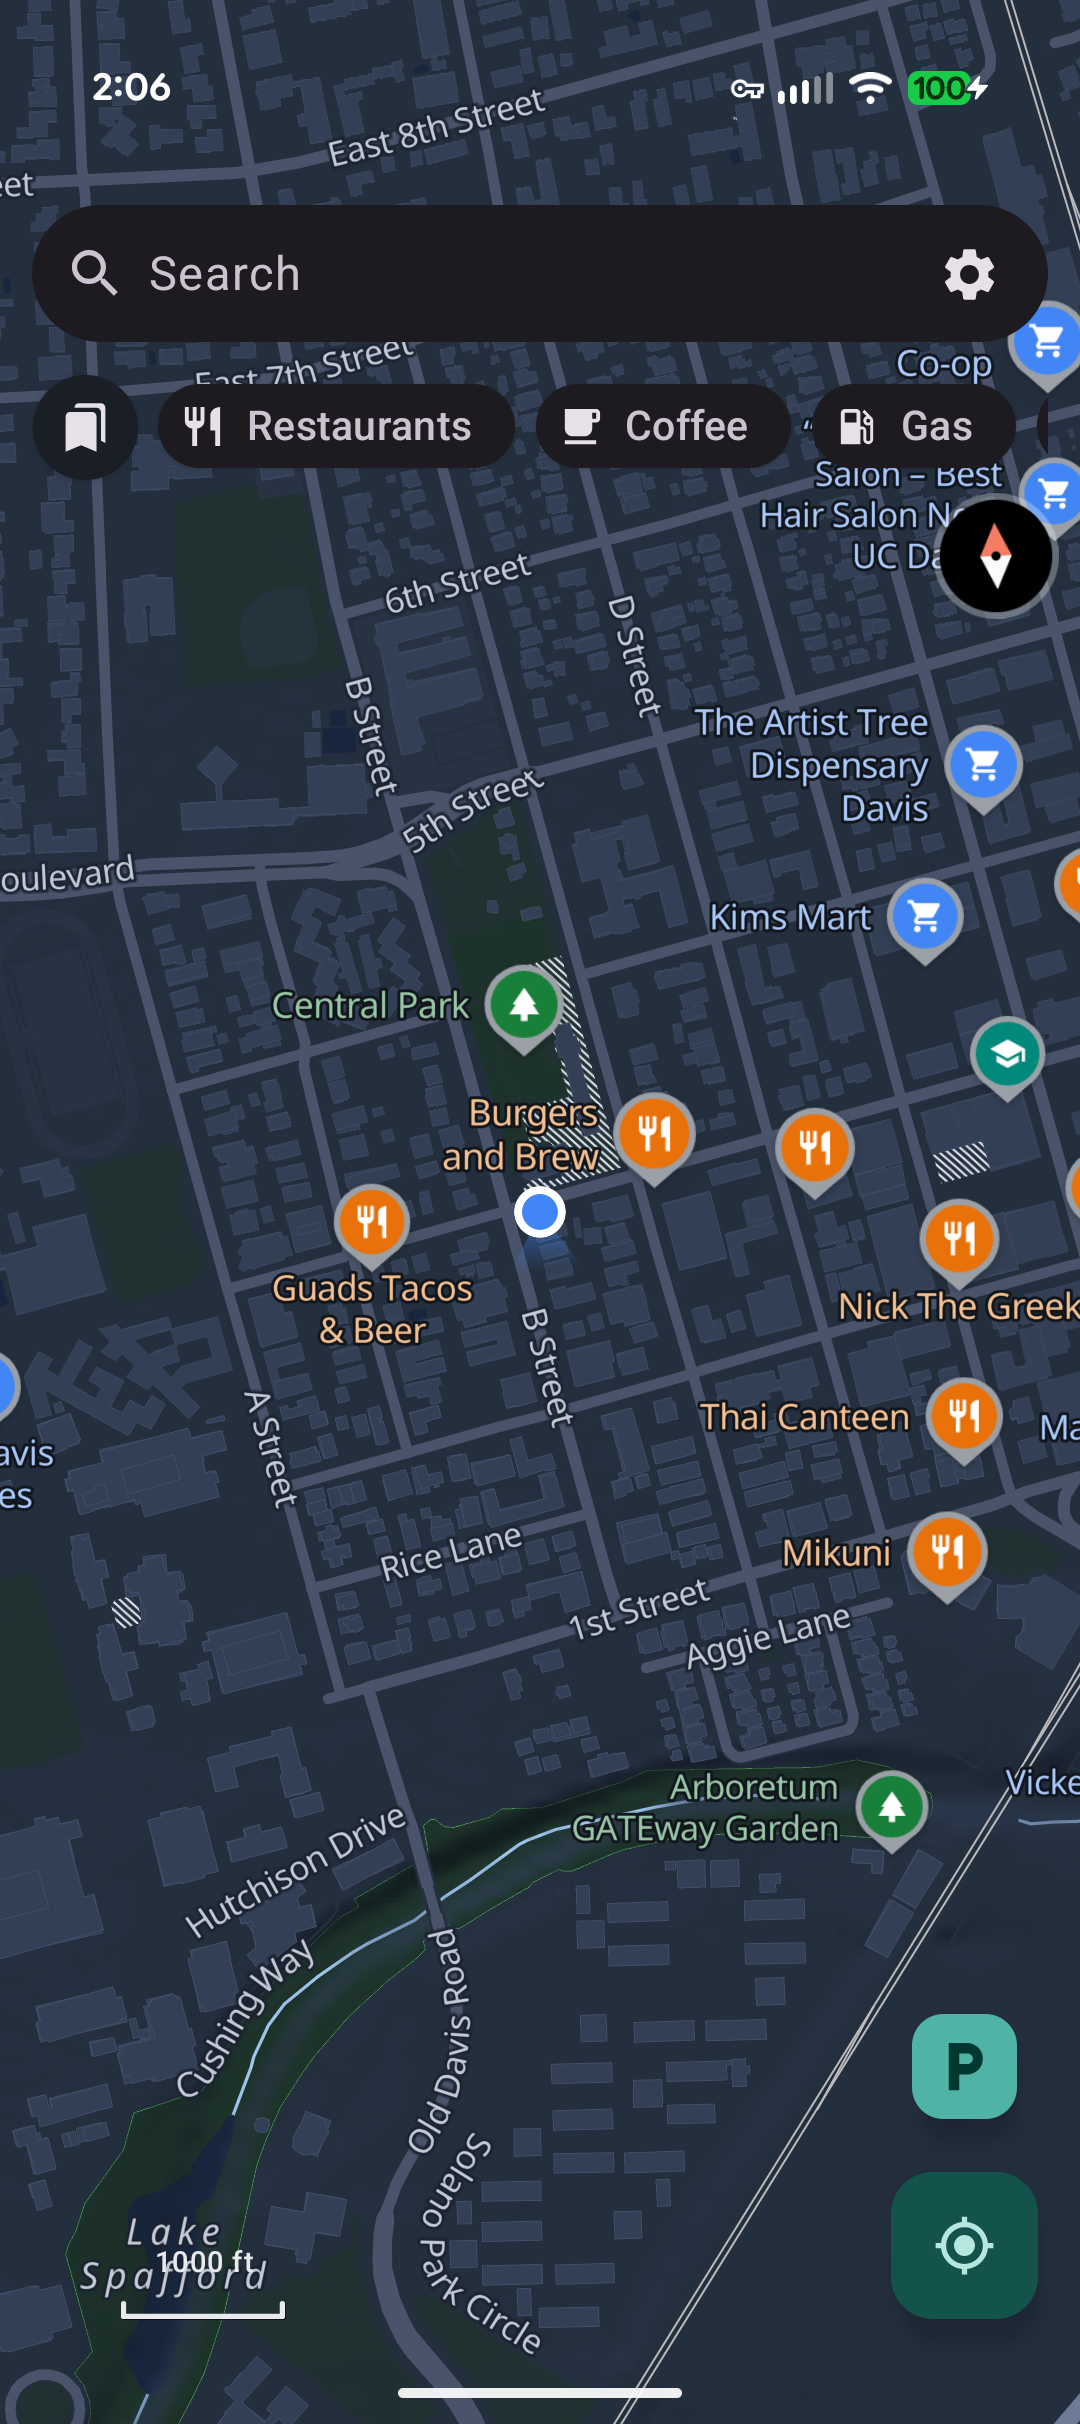
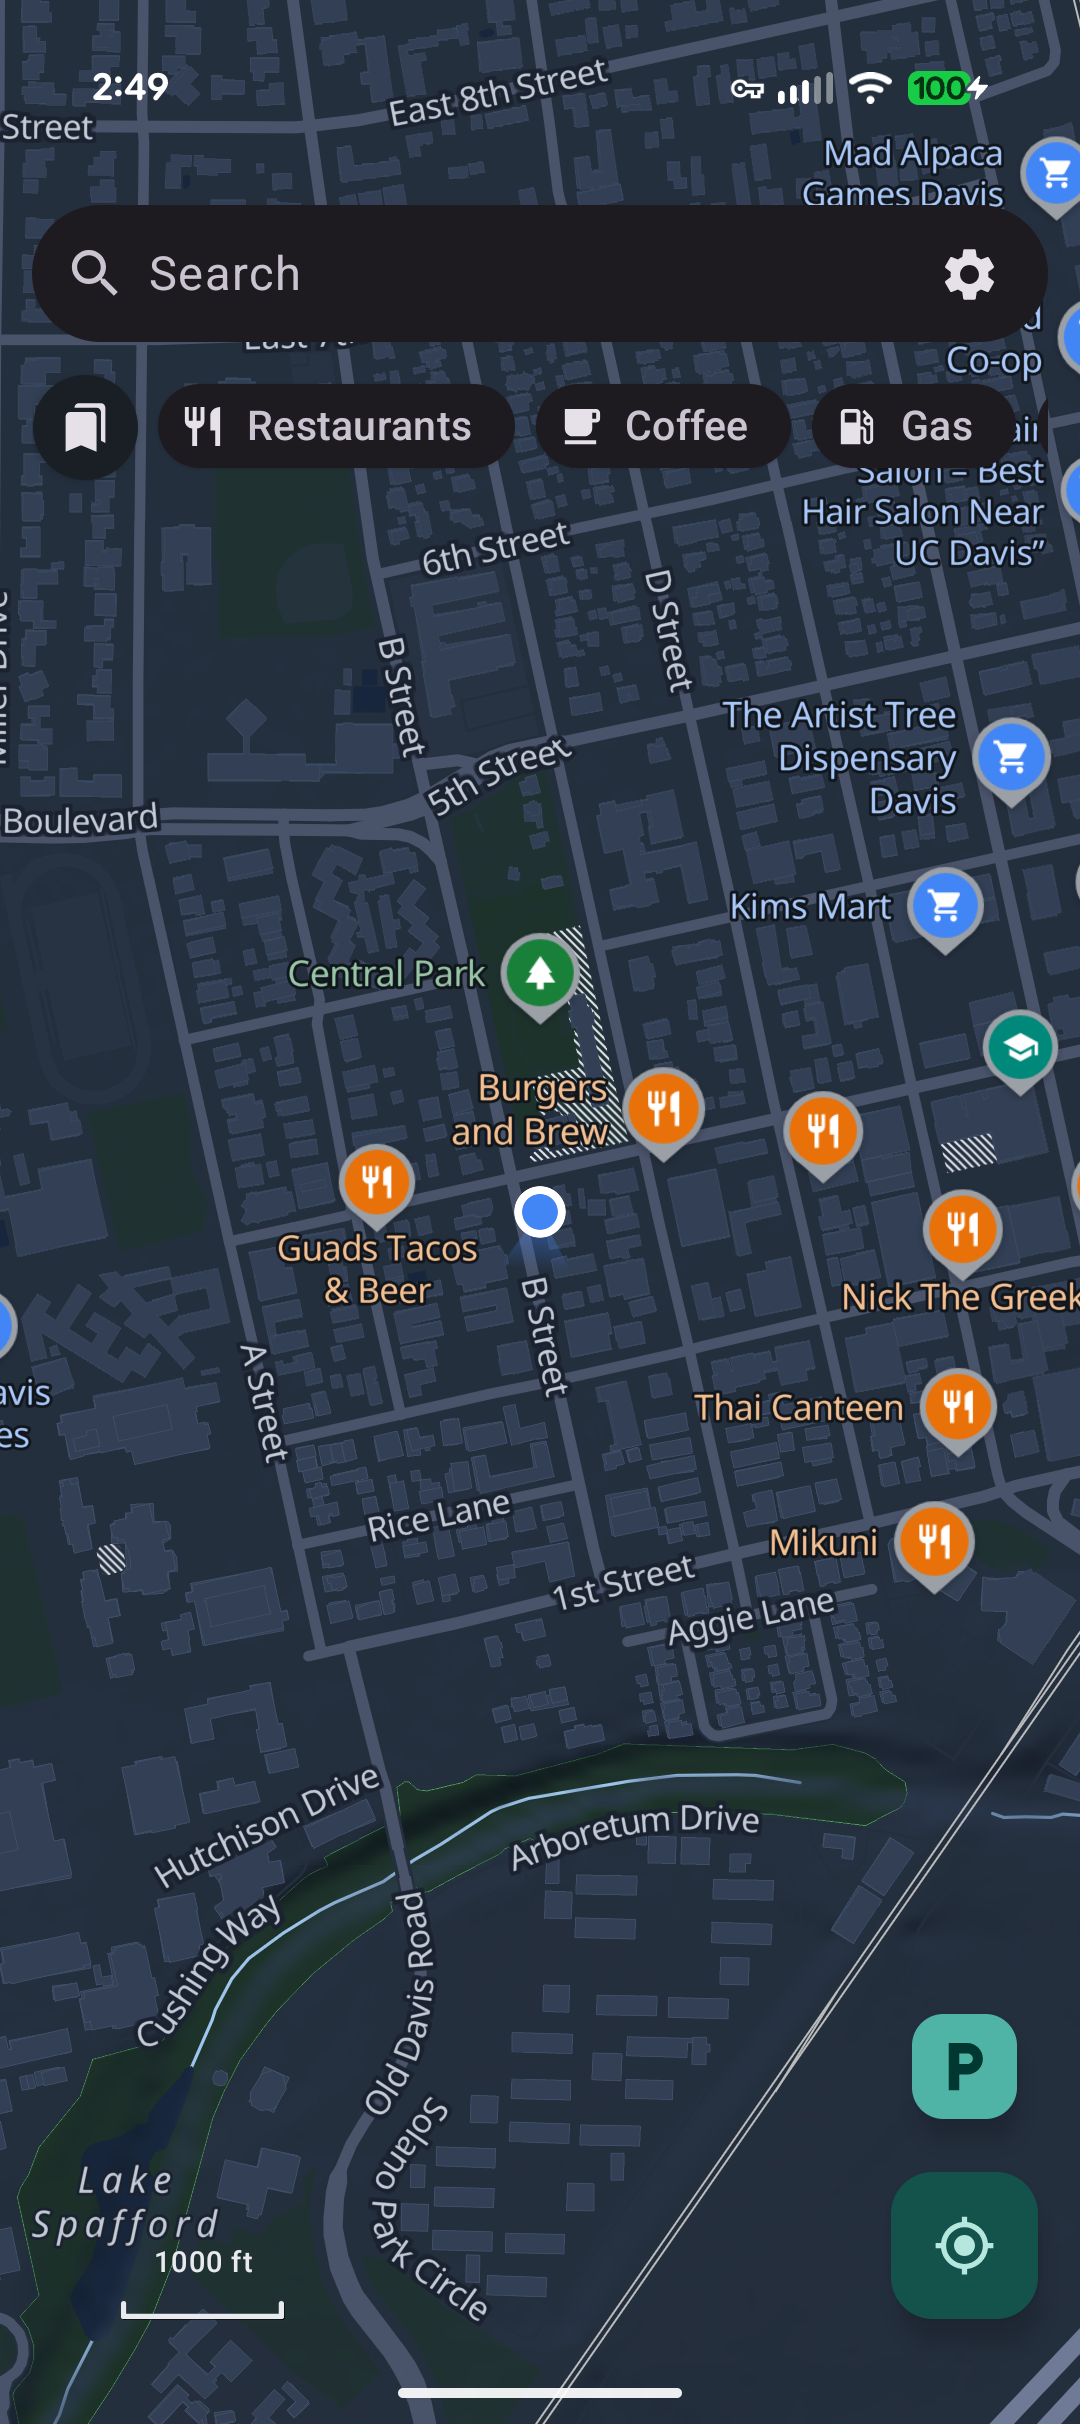
Street names stay readable over routes, keypad focus ring stops clipping the first letter
Road-name labels get a wider text halo (1.9 vs the 1.1 every other
label gets) in both themes, so the dotted walking line and the blue
route line no longer make street names unreadable where they cross.
The halo is the underlay tint that Google uses for the same problem.

The search bar focus ring (the one keypad phones see) drew its 2dp
stroke straight through the first typed letter, because the ring sits
on the exact box edge where the text starts. The text now sits 10dp
inside the ring. Touch phones never show the ring, so nothing changes
for them.

Flipping Simulate-my-location on mid-session left the old stale-dot
timer running, so the pinned demo dot still greyed out after 30
seconds. The earlier fix only covered starting the app with the
toggle already on; now both paths cancel the timer.

Retook the map, search results and place sheet screenshots in Davis
on the fixed build, so the wider halos and the results sheet are what
you actually get.

diff --git a/app/src/main/java/app/vela/ui/map/VelaMapView.kt b/app/src/main/java/app/vela/ui/map/VelaMapView.kt
@@ -1582,6 +1582,14 @@ private fun applyMapTheme(style: Style, dark: Boolean) {
 }
 
 internal fun applyLight(style: Style) {
+    // Road-name labels get a wide white halo so they stay readable over the dotted walk
+    // line / route line beneath them (dark path does the same; see the symbol pass there).
+    listOf("highway-name-path", "highway-name-minor", "highway-name-major").forEach {
+        style.getLayer(it)?.setProperties(
+            PropertyFactory.textHaloColor("#ffffff"),
+            PropertyFactory.textHaloWidth(1.9f),
+        )
+    }
     // Google-Maps light palette: clean white road fills on a light-grey land, with
     // every casing faded DOWN the hierarchy until minor-road casing == the land, so
     // streets are crisp white lines with NO outline (the outlines were exactly what
@@ -1713,7 +1721,10 @@ internal fun applyDark(style: Style) {
             layer is SymbolLayer -> layer.setProperties(
                 PropertyFactory.textColor("#c3cad6"),
                 PropertyFactory.textHaloColor("#1a2230"),
-                PropertyFactory.textHaloWidth(1.1f),
+                // Road names get a WIDER halo than the 1.1 blanket: the dotted walk line and
+                // the route line run right under them, and at 1.1 the text drowned in the dots
+                // (user 2026-07-09). The halo is the "underlay tint" - Google does the same.
+                PropertyFactory.textHaloWidth(if (layer.id.startsWith("highway-name")) 1.9f else 1.1f),
             )
             layer is FillLayer && layer.id !in greens &&
                 (layer.id.startsWith("landuse") || layer.id.startsWith("landcover")) ->

diff --git a/app/src/main/java/app/vela/ui/search/SearchBar.kt b/app/src/main/java/app/vela/ui/search/SearchBar.kt
@@ -140,6 +140,10 @@ fun SearchBar(
                             Modifier
                                 .dpadHighlight(DpadRoundedCornerShape(20.dp))
                                 .clickable { fieldArmed = true }
+                                // Inset the text INSIDE the focus ring - with none, the first
+                                // letter started at the Box edge and the 2dp ring stroke drew
+                                // straight through it (keypad phones see this on every search).
+                                .padding(horizontal = 10.dp)
                         } else {
                             Modifier
                         },

diff --git a/app/src/main/java/app/vela/ui/map/MapViewModel.kt b/app/src/main/java/app/vela/ui/map/MapViewModel.kt
@@ -2786,6 +2786,9 @@ class MapViewModel @Inject constructor(
         val here = mapCenter ?: _state.value.myLocation ?: return
         app.vela.ui.SimLocation.set(appContext, here)
         locationJob?.cancel(); locationJob = null // sim owns the puck — no live fixes
+        // The timer armed by the collector's LAST fix keeps ticking after the cancel and would
+        // grey the pinned dot ~30 s in (same hole as the startLocation() sim branch).
+        staleTimerJob?.cancel(); staleTimerJob = null
         _state.update {
             it.copy(myLocation = here, center = here, recenterTick = it.recenterTick + 1, myLocationStale = false)
         }

diff --git a/CLAUDE.md b/CLAUDE.md
@@ -112,9 +112,12 @@ Defaults that make the safe path the easy one:
   cancels the demo job (its `finally` resumes live GPS + resets the dot/route). **Turn it OFF to
   navigate for real** - while on, every "Start" simulates instead of using GPS.
 - **Simulate-my-location (demo)** (`ui/SimLocation.kt`, Settings → Navigation, off by default,
-  pref `sim_location` in `vela_settings`). The sim branch in `startLocation()` also CANCELS the
-  stale-location timer (2026-07-09): the pinned demo dot gets no fresh fixes, so a timer armed by
-  the last real fix greyed the dot ~30 s in and nothing ever turned it blue again. A sibling of demo-drive for demos/screenshots: when on,
+  pref `sim_location` in `vela_settings`). BOTH sim entry points CANCEL the stale-location timer
+  (2026-07-09): the pinned demo dot gets no fresh fixes, so a timer armed by the last real fix
+  greyed the dot ~30 s in and nothing ever turned it blue again. The sim branch in `startLocation()`
+  covers app restart with the toggle already on; `simulateLocationHere()` covers flipping the toggle
+  mid-session (it cancels `locationJob` but the timer the collector armed outlives that cancel - the
+  first fix was missed there and the bug came straight back). A sibling of demo-drive for demos/screenshots: when on,
   Vela pretends to be at the map centre (captured when you flip the toggle), so the location dot,
   the directions ORIGIN ("Your location"), and recenter all read from there instead of your real
   GPS - that is how every Davis/Sacramento screenshot was shot from elsewhere without leaking a real
@@ -321,7 +324,11 @@ Defaults that make the safe path the easy one:
   bundled `liberty-roboto.json` asset (which DOES pin a dated `planet/<snapshot>` path) is **parked +
   unused** - the `asset://`/`fromJson` path in `VelaMapView` is dead code kept only as reference (a bundled
   copy blanked the vector tiles on-device; see the project memory). Don't be misled by the stale path in
-  that asset. Verify basemap edits on-device in **both** themes.
+  that asset. Verify basemap edits on-device in **both** themes. (4) **Road-name halos are
+  WIDER than the blanket** (2026-07-09): applyDark/applyLight give the three `highway-name-*`
+  symbol layers `textHaloWidth 1.9` vs the 1.1 every other label gets - route lines and the
+  dotted walking line run right under street names and made them unreadable; the fatter halo
+  is the "underlay tint" (Google does the same). Keep the exception if the blanket pass changes.
 - **D-pad-only operation is a hard UI rule (2026-07-07, `docs/dpad.md`).** The whole app
   works with a 5-key D-pad and NO touchscreen (touch is a bonus). Helpers in
   `app/ui/DpadFocus.kt` (`rememberDpadMode`/`rememberNoTouchDevice`/`Modifier.dpadHighlight`/

diff --git a/docs/dpad.md b/docs/dpad.md
@@ -354,6 +354,11 @@ buttons, steps-sheet rows, both sheet handles, the maneuver banner. Material
 buttons/switches/dialogs keep their built-in focus indication (adequate on those
 components; extend the pass if a spot proves hard to see).
 
+The search bar's text region insets its content 10 dp inside the ring (2026-07-09):
+the ring is drawn on the Box whose edge is exactly where the first typed letter
+starts, so with no inset the 2 dp stroke cut straight through that letter on every
+keypad-phone search.
+
 ## Everything checked, file by file
 
 | Surface | Verdict |